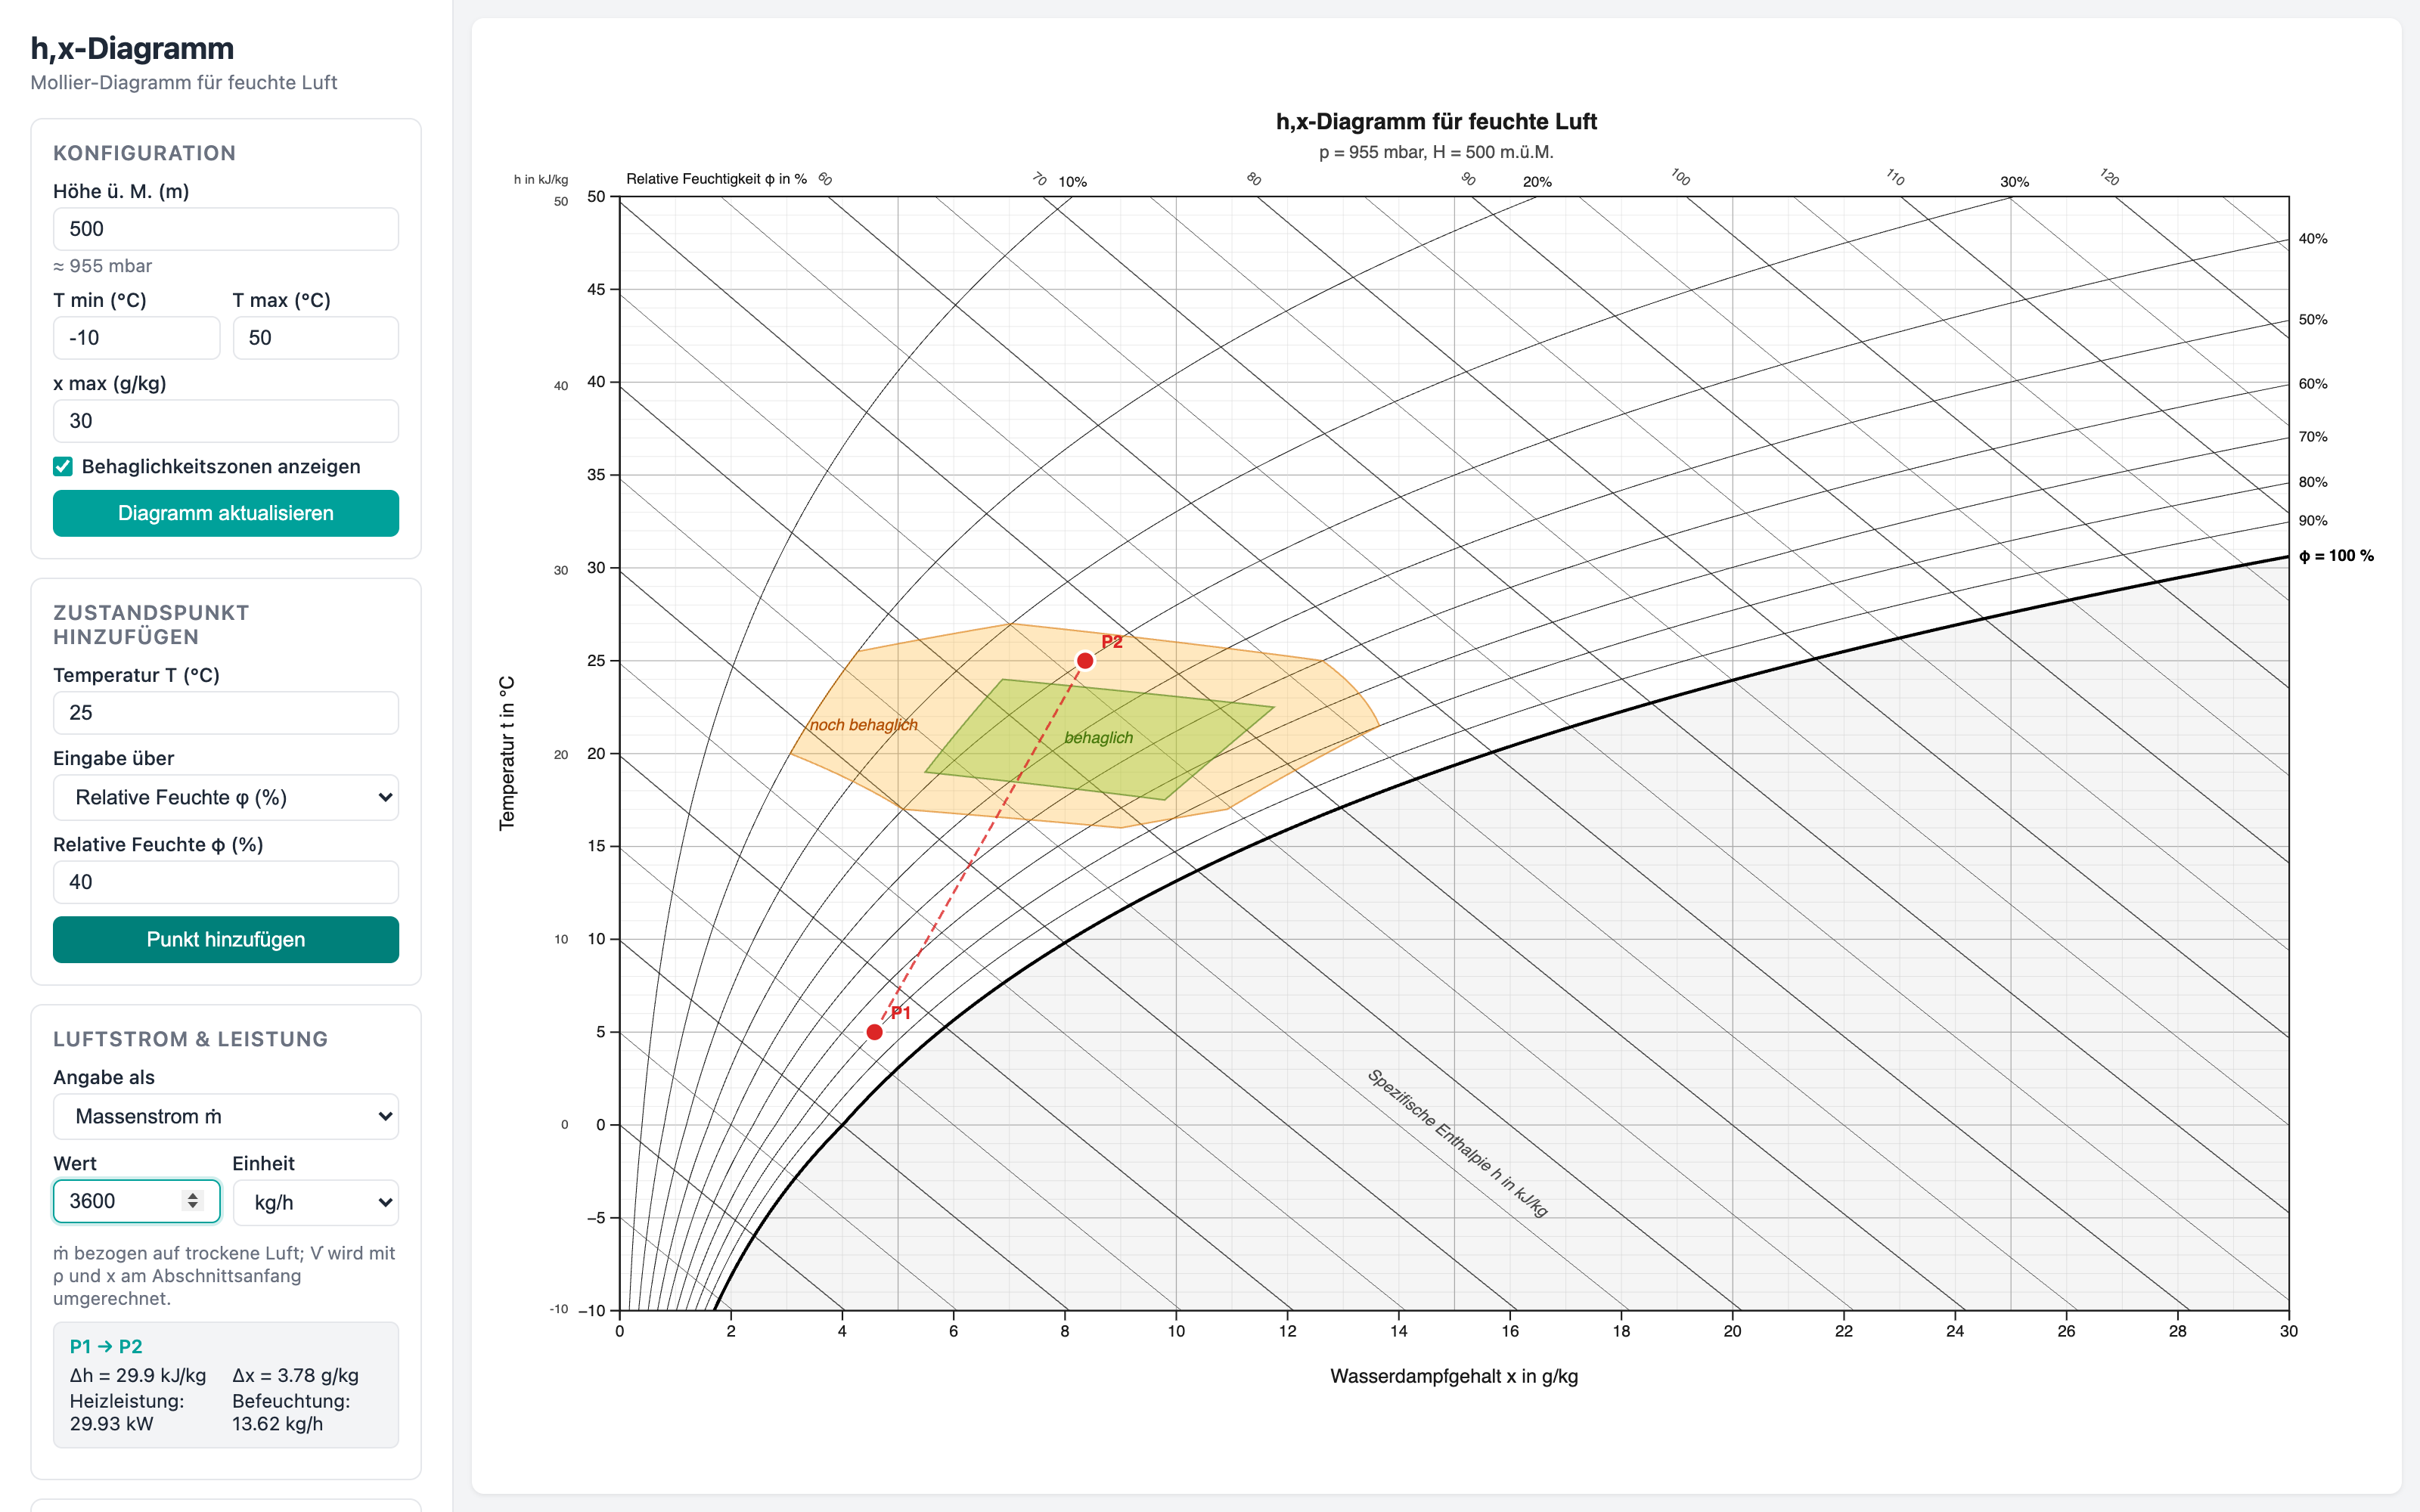
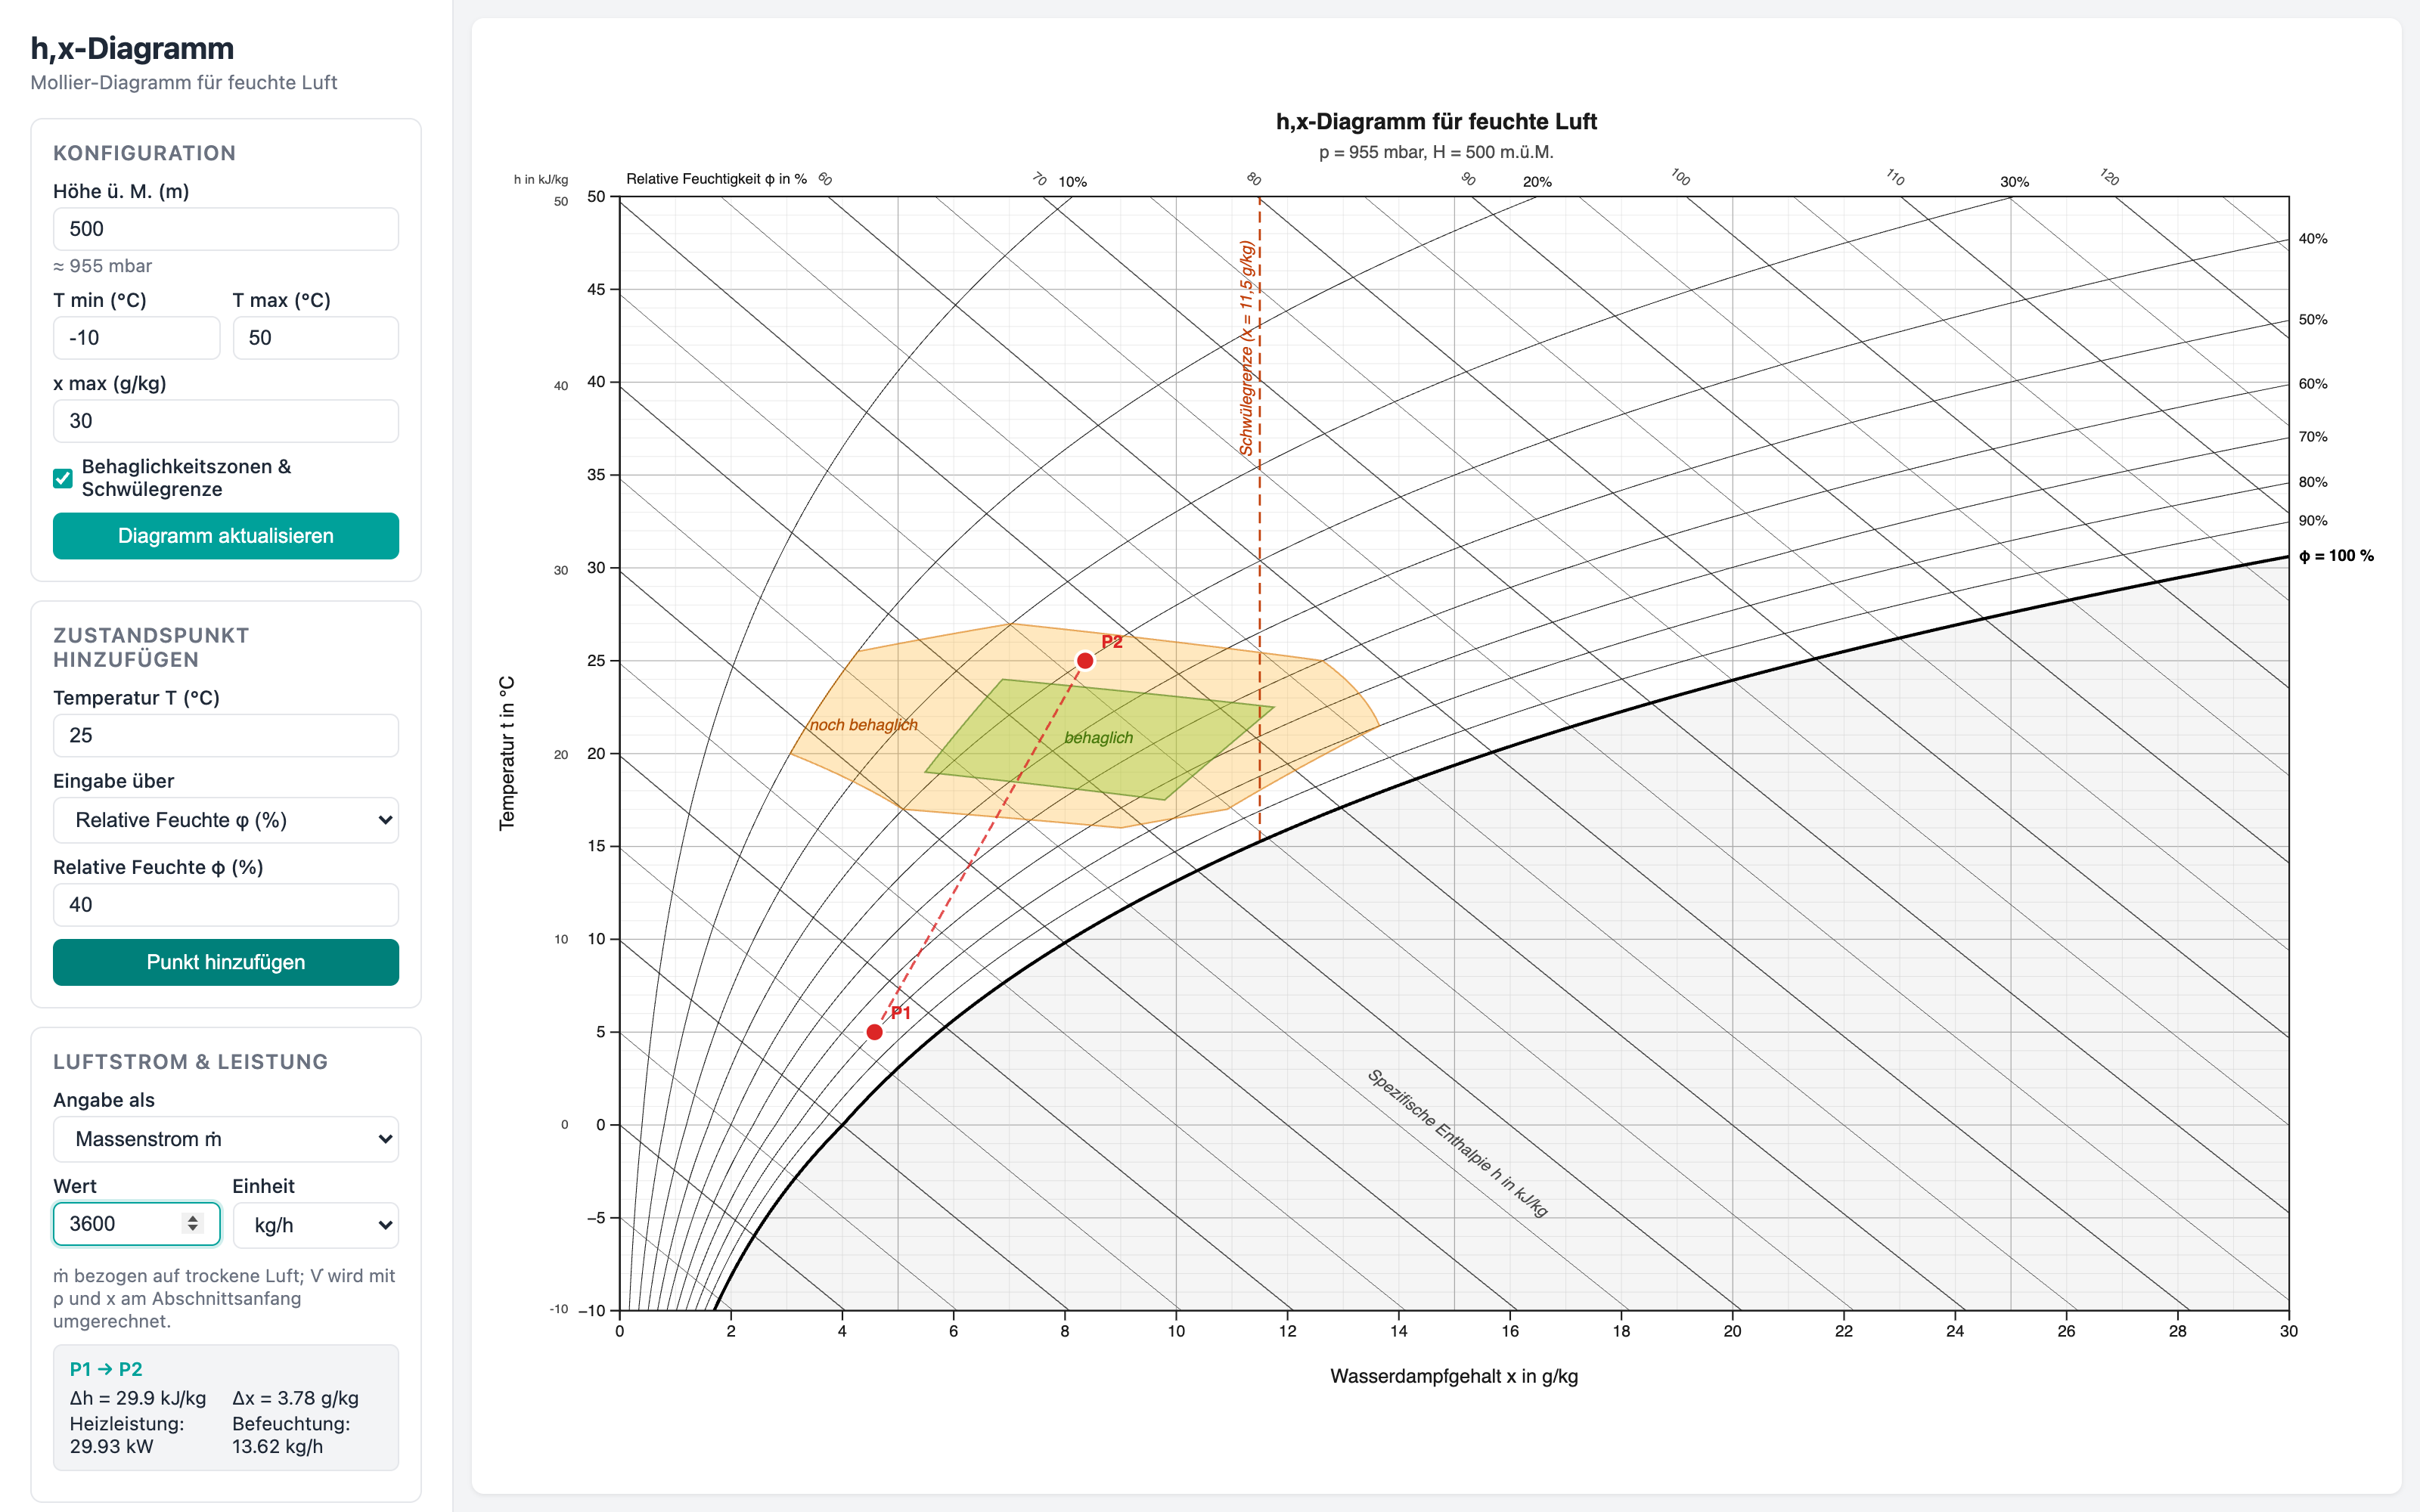
V 1.4.1

Changed region(s): [[0.0, 0.31, 0.1875, 1.0], [0.5, 0.248, 0.5312, 0.279]]

diff --git a/src/diagram.js b/src/diagram.js
@@ -41,6 +41,11 @@ const COMFORT_ZONES = [
   },
 ];
 
+// Schwülegrenze nach Leusden/Freymark: rechts von x = 11.5 g/kg
+// wird die Luft als schwül empfunden (senkrechte Linie im h,x-Diagramm)
+const SULTRINESS_LIMIT_X = 11.5; // g/kg
+const SULTRINESS_COLOR = '#c2410c';
+
 export class HXDiagram {
   constructor(container, config, callbacks = {}) {
     this.container = container;
@@ -191,6 +196,40 @@ export class HXDiagram {
         .attr('fill', zone.labelColor)
         .text(zone.name);
     }
+
+    this.drawSultrinessLimit();
+  }
+
+  // Senkrechte Schwülegrenze bei x = 11.5 g/kg mit Beschriftung entlang der Linie.
+  // Gilt nur für ungesättigte Luft: Die Linie endet unten an der Sättigungslinie
+  // (= Taupunkt von x = 11.5 g/kg beim aktuellen Druck), darunter beginnt das Nebelgebiet.
+  drawSultrinessLimit() {
+    const { tMin, tMax, xMax, pressure } = this.config;
+    if (SULTRINESS_LIMIT_X > xMax) return;
+
+    const tSat = psy.dewPointFromX(SULTRINESS_LIMIT_X / 1000, pressure);
+    if (tSat >= tMax) return; // Linie läge vollständig im Nebelgebiet
+
+    const lx = this.xScale(SULTRINESS_LIMIT_X);
+    this.comfortGroup.append('line')
+      .attr('x1', lx)
+      .attr('x2', lx)
+      .attr('y1', this.yScale(Math.max(tMin, tSat)))
+      .attr('y2', this.yScale(tMax))
+      .attr('stroke', SULTRINESS_COLOR)
+      .attr('stroke-width', 1.2)
+      .attr('stroke-dasharray', '7,4');
+
+    const ly = this.yScale(tMax - (tMax - tMin) * 0.04);
+    this.comfortGroup.append('text')
+      .attr('x', lx - 5)
+      .attr('y', ly)
+      .attr('text-anchor', 'end')
+      .attr('font-size', '10px')
+      .attr('font-style', 'italic')
+      .attr('fill', SULTRINESS_COLOR)
+      .attr('transform', `rotate(-90, ${lx - 5}, ${ly})`)
+      .text('Schwülegrenze (x = 11,5 g/kg)');
   }
 
   setShowComfort(visible) {

diff --git a/index.html b/index.html
@@ -45,7 +45,7 @@
         <div class="form-group form-check">
           <label for="show-comfort">
             <input type="checkbox" id="show-comfort">
-            Behaglichkeitszonen anzeigen
+            Behaglichkeitszonen &amp; Schwülegrenze
           </label>
         </div>
         <button id="btn-update-config" class="btn btn-primary">Diagramm aktualisieren</button>

diff --git a/README.md b/README.md
@@ -17,7 +17,7 @@ Interaktive Web-App zur Darstellung eines Mollier h,x-Diagramms für feuchte Luf
 - **Prozesslinien:** Automatische Verbindung zwischen Zustandspunkten
 - **Vollständige Zustandsberechnung:** Temperatur, relative/absolute Feuchte, Enthalpie, Taupunkt und Dichte
 - **Leistungsberechnung:** Massen- oder Volumenstrom eingeben (kg/s, kg/h, m³/s, m³/h); die App berechnet pro Prozessabschnitt Heiz-/Kühlleistung `Q = ṁ·Δh` (kW) und Be-/Entfeuchtungsleistung `ṁ·Δx` (kg/h) samt Gesamtbilanz
-- **Behaglichkeitszonen:** Zuschaltbares Komfort-Overlay („behaglich" / „noch behaglich") nach der HSLU-edar-Referenz, ins h,x-Koordinatensystem transformiert
+- **Behaglichkeitszonen & Schwülegrenze:** Zuschaltbares Komfort-Overlay („behaglich" / „noch behaglich") nach der HSLU-edar-Referenz, ins h,x-Koordinatensystem transformiert, plus Schwülegrenze bei x = 11,5 g/kg (Leusden/Freymark)
 - **Design nach Seven-Air-Vorlage:** Monochromes Liniennetz, Helvetica-Beschriftung, alle Linien bis zum Diagrammrand
 - **Responsive:** Auf iPhone/iPad (unterhalb 900 px Breite) gestapeltes, scrollbares Layout mit dem Diagramm zuoberst; Zustandspunkte sind per Touch setz- und verschiebbar
 
@@ -92,14 +92,16 @@ Bei mehr als zwei Punkten wird zusätzlich die Gesamtbilanz über die ganze Proz
 
 **Konventionen:** Der Massenstrom ṁ ist auf trockene Luft bezogen (h und x sind pro kg trockene Luft definiert). Ein eingegebener Volumenstrom wird je Abschnitt mit der Dichte und Feuchte am Abschnittsanfang umgerechnet: `ṁ = V̇ · ρ / (1 + x)`.
 
-## Behaglichkeitszonen
+## Behaglichkeitszonen & Schwülegrenze
 
-Über die Checkbox **„Behaglichkeitszonen anzeigen"** (Panel „Konfiguration") lassen sich zwei Komfortzonen ein- und ausblenden:
+Über die Checkbox **„Behaglichkeitszonen & Schwülegrenze"** (Panel „Konfiguration") lassen sich zwei Komfortzonen sowie die Schwülegrenze ein- und ausblenden:
 
 | Zone | Darstellung | Eckpunkte (T in °C / φ in %) |
 |---|---|---|
 | behaglich | gelbgrün, 40 % Deckkraft | (19/38), (17.5/74), (22.5/65), (24/35) |
 | noch behaglich | orange, 25 % Deckkraft | (20/20), (17/40), (16/75), (17/85), (21.5/80), (25/60), (27/30), (25.5/20) |
+
+Zusätzlich wird die **Schwülegrenze** nach Leusden/Freymark als senkrechte, gestrichelte Linie bei **x = 11,5 g/kg** dargestellt; rechts davon wird die Luft als schwül empfunden. Die Linie gilt nur für ungesättigte Luft und endet deshalb unten an der Sättigungslinie (φ = 100 %, d.h. am druckabhängigen Taupunkt von 11,5 g/kg, bei 955 mbar ≈ 15,3 °C); darunter beginnt das Nebelgebiet. Bei x max < 11,5 g/kg liegt sie ausserhalb und wird nicht gezeichnet.
 
 Die Polygone stammen aus der [HSLU-edar-Referenz `comfortTempHum.Rmd`](https://github.com/hslu-ige-laes/edar/blob/master/partDataVis/comfortTempHum.Rmd) (dort in einem T/φ-Plot). In dieser App werden die Kanten linear in (T, φ) abgetastet und über die Psychrometrie φ→x ins h,x-Koordinatensystem transformiert; die Zonenform ist dadurch druckabhängig und passt zu den vorhandenen Zustandspunkten: Liegt ein Punkt in der Zone, ist der Luftzustand behaglich.
 